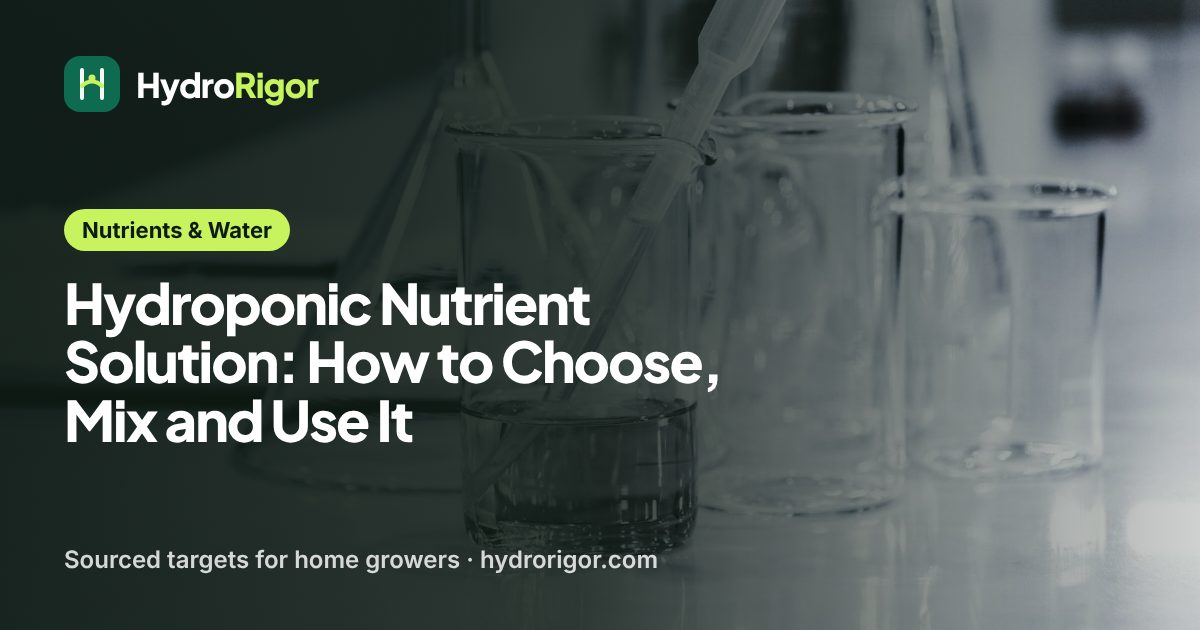
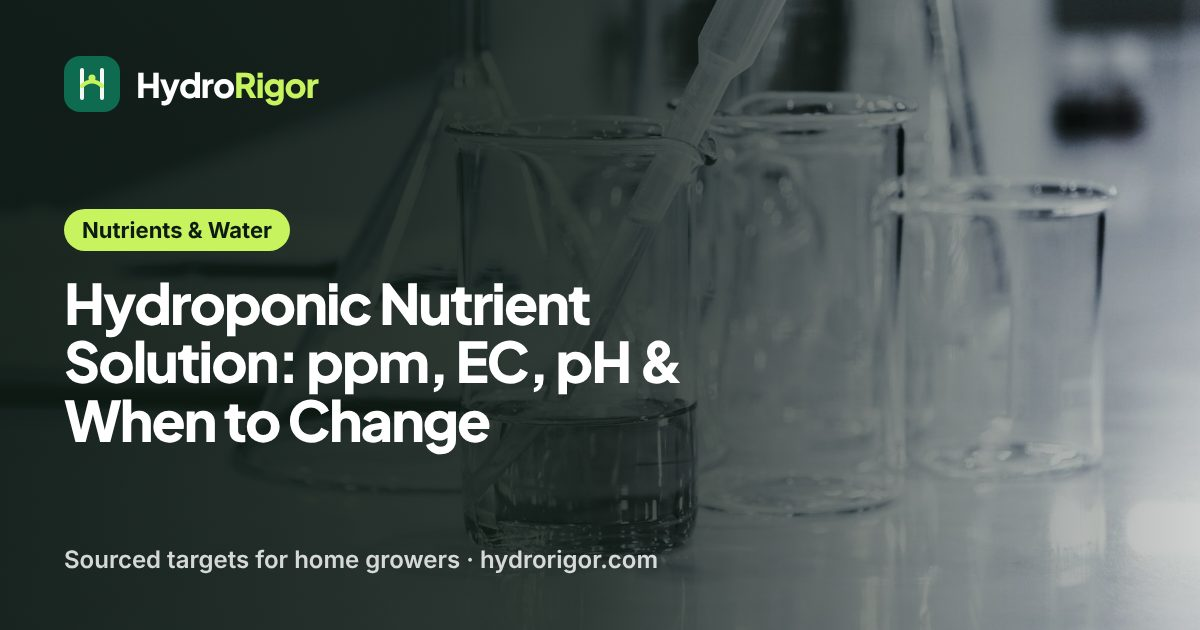
Rebuild nutrient solution guide: ppm, EC, pH and when to change
Rebuilds /nutrients-water/hydroponic-nutrient-solution/ to the content
standard: direct answer with numbers, KeyTargets card, ppm-by-stage table,
EC and pH by crop with source conflicts resolved, temperature and oxygen,
top-up versus replace, step-by-step, troubleshooting and FAQ, two new
diagrams. 16 registered sources; share images and Pinterest row regenerated.

Claude-Session: https://claude.ai/code/session_011zSWQwzAHzQ8Kry2U6W4eH

Changed region(s): [[0.0308, 0.5429, 0.6167, 0.7238]]

diff --git a/src/data/editorial-sources/m06.ts b/src/data/editorial-sources/m06.ts
@@ -25,7 +25,7 @@ export const m06EditorialSources = [
     url: 'https://extension.missouri.edu/publications/g6984',
     accessedDate: '2026-09-12',
     sourceType: 'university-extension',
-    locator: 'Water quality, preparation, measurement, and nutrient-solution management',
+    locator: 'Water quality, preparation, measurement, and nutrient-solution management: pH 5.5–6.5 rule of thumb for most hydroponic crops; source water EC 0.2–0.8 dS/m (ideally below 1), pH 5.5–7.0, alkalinity 40–160 ppm as CaCO3, sodium below 50 ppm, chlorine below 70 ppm, calcium below 150 ppm, boron below 0.5 ppm; calcium reacts with phosphates and sulfates to form insoluble solids roots cannot use, so dissolve each formulation completely before combining; EC shows the total, not the balance of individual nutrients',
   },
   {
     id: 'uga-home-hydroponics',
@@ -268,7 +268,7 @@ export const m06EditorialSources = [
     url: 'https://extension.psu.edu/hydroponics-systems-nutrient-solution-programs-and-recipes',
     accessedDate: '2026-11-06',
     sourceType: 'university-extension',
-    locator: 'Fertilizer programs: tomato example with a 4-18-38 base supplemented with calcium nitrate and magnesium sulfate by variety and stage; Nutrient solution concentration and fertilizer compatibility: two stock tanks keep calcium apart from phosphates and sulfates to avoid precipitates that clog drip lines',
+    locator: 'Preparation approaches grouped as fertilizer programs, recipes and complete soluble fertilizers; Fertilizer programs: tomato example with a 4-18-38 base supplemented with calcium nitrate and magnesium sulfate by variety and stage; Nutrient solution concentration and fertilizer compatibility: two stock tanks keep calcium apart from phosphates and sulfates to avoid precipitates that clog drip lines',
   },
   {
     id: 'psu-plant-nutrition',
@@ -277,7 +277,7 @@ export const m06EditorialSources = [
     url: 'https://extension.psu.edu/hydroponics-systems-and-principles-of-plant-nutrition-essential-nutrients-function-deficiency-and-excess',
     accessedDate: '2026-09-12',
     sourceType: 'university-extension',
-    locator: 'Essential nutrients, availability, monitoring, deficiency, and soluble salts',
+    locator: 'Essential nutrients, availability, monitoring, deficiency, and soluble salts: 17 essential elements, carbon, hydrogen and oxygen from air and water; antagonisms (excess of one nutrient, e.g. potassium, reduces uptake of another such as calcium or magnesium); interveinal yellowing of new leaves from iron deficiency, often caused by high pH; calcium-related tipburn and blossom-end rot; excess salts cause wilting and leaf burn',
   },
   {
     id: 'osu-ph-ec-guide',
@@ -286,7 +286,7 @@ export const m06EditorialSources = [
     url: 'https://extension.okstate.edu/fact-sheets/electrical-conductivity-and-ph-guide-for-hydroponics',
     accessedDate: '2026-11-06',
     sourceType: 'university-extension',
-    locator: 'HLA-6722 Table 2: tomato EC 2.0–4.0 mS/cm, pH 6.0–6.5; lettuce EC 1.2–1.8, pH 6.0–7.0; basil EC 1.0–1.6, pH 5.5–6.0; spinach EC 1.8–2.3, pH 6.0–7.0; strawberry EC 1.8–2.2, pH 6; broccoli EC 2.8–3.5, pH 6.0–6.8; kale and Swiss chard not listed; check pH and EC daily at the same time; adjust pH only after EC is in range; dilute with water if EC is high, add concentrate if low; pH adjusters; test source water for pH, EC and alkalinity; alkalinity above 75 ppm raises pH',
+    locator: 'HLA-6722 Table 2: tomato EC 2.0–4.0 mS/cm, pH 6.0–6.5; lettuce EC 1.2–1.8, pH 6.0–7.0; basil EC 1.0–1.6, pH 5.5–6.0; spinach EC 1.8–2.3, pH 6.0–7.0; strawberry EC 1.8–2.2, pH 6; broccoli EC 2.8–3.5, pH 6.0–6.8; kale and Swiss chard not listed; check pH and EC daily at the same time; adjust pH only after EC is in range; dilute with water if EC is high, add concentrate if low; pH adjusters; test source water for pH, EC and alkalinity; alkalinity above 75 ppm raises pH; solution temperature about 72–75 °F (22–24 °C); replace the solution completely about every two weeks; EC calibration standard 1.41 mS/cm',
   },
   {
     id: 'usda-organic-certification',

diff --git a/src/data/m06-content.ts b/src/data/m06-content.ts
@@ -31,7 +31,7 @@ const items = [
   [11, 'articles', 'crops', 'Hydroponic Tomatoes: pH, EC, Light, Spacing & Pruning', 'hydroponic-tomatoes', 'transactional research', 'hydroponic tomatoes', 'VERIFIED_2026-09-12', 1900, 29, ['tennessee-fruiting-crops', 'aces-greenhouse-tomato-anr2955', 'utk-trust-tomato-density-2012', 'vt-management-basics-spes462', 'vt-system-crop-comparisons', 'purdue-supplemental-light-lettuce', 'osu-ph-ec-guide', 'ifas-hydroponic-tomato-formulation', 'osu-hydro-hints-buckets', 'ifas-volusia-dwc-bucket', 'msstate-blossom-end-rot', 'mu-hydroponic-farming'], ['/tools/ph-ec-targets/']],
   [12, 'articles', 'crops', 'Hydroponic Tomato Seeds: Varieties That Fit Indoor Systems', 'hydroponic-tomato-seeds', 'transactional research', 'hydroponic tomatoes seeds', 'VERIFIED_2026-09-12', 480, 16, ['ifas-tomato-cultivars', 'usu-indoor-tomatoes', 'tennessee-fruiting-crops'], []],
   [13, 'articles', 'nutrients', "Hydroponic Nutrients: pH, EC & Mixing Guide for Beginners", 'hydroponic-nutrients', 'informational', 'hydroponic nutrients', 'VERIFIED_2026-09-12', 3600, 22, ['psu-plant-nutrition', 'mu-nutrient-solutions', 'osu-ph-ec-guide', 'ua-strawberry-irrigation'], ['/tools/ph-ec-targets/', '/tools/nutrient-mixing-calculator/']],
-  [14, 'articles', 'nutrients', 'Hydroponic Nutrient Solution: How to Choose, Mix and Use It', 'hydroponic-nutrient-solution', 'transactional research', 'hydroponic nutrients solution', 'VERIFIED_2026-09-12', 720, 25, ['mu-nutrient-solutions', 'psu-nutrient-programs', 'osu-ph-ec-guide'], ['/tools/nutrient-mixing-calculator/']],
+  [14, 'articles', 'nutrients', 'Hydroponic Nutrient Solution: ppm, EC, pH & When to Change', 'hydroponic-nutrient-solution', 'transactional research', 'hydroponic nutrients solution', 'VERIFIED_2026-09-12', 720, 25, ['mu-nutrient-solutions', 'psu-nutrient-programs', 'psu-plant-nutrition', 'osu-ph-ec-guide', 'ifas-hydroponic-tomato-formulation', 'ohio-state-tomato-nutrient-solution', 'tennessee-fruiting-crops', 'uky-hydroponic-lettuce', 'uky-monitoring-ph-ec', 'ifas-lettuce-small-systems', 'vt-system-crop-comparisons', 'sato-modified-nft-2007', 'gomez-basil-small-scale-2020', 'ua-strawberry-irrigation', 'msstate-tomato-ph', 'msu-calibrate-ph-ec'], ['/tools/ph-ec-targets/', '/tools/nutrient-mixing-calculator/']],
   [15, 'articles', 'nutrients', 'Organic Hydroponic Nutrients: What Works and What to Know', 'organic-hydroponic-nutrients', 'transactional research', 'hydroponic nutrients organic', 'VERIFIED_2026-09-12', 590, 20, ['usda-organic-certification', 'psu-organic-nutrient-study', 'mu-nutrient-solutions'], []],
   [16, 'articles', 'best', 'Best Hydroponic Nutrients for Home Growers', 'hydroponic-nutrients-for-home-growers', 'commercial research', 'best hydroponic nutrients', 'METRIC_NOT_REVERIFIED', undefined, undefined, ['psu-nutrient-programs', 'mu-nutrient-solutions', 'psu-plant-nutrition'], ['/tools/nutrient-mixing-calculator/']],
   [17, 'articles', 'nutrients', 'Powder vs Liquid Hydroponic Nutrients: Which Should You Buy?', 'powder-vs-liquid-hydroponic-nutrients', 'commercial research', 'hydroponic nutrients powder', 'METRIC_NOT_REVERIFIED', undefined, undefined, ['psu-nutrient-programs', 'mu-nutrient-solutions'], ['/tools/nutrient-mixing-calculator/']],

diff --git a/.agent/state/CURRENT_HANDOFF.md b/.agent/state/CURRENT_HANDOFF.md
@@ -1,6 +1,6 @@
 # Current Handoff
 
-Updated: 2026-11-12
+Updated: 2026-11-13
 
 ## State
 
@@ -77,6 +77,8 @@ Updated: 2026-11-12
 
 Guides published by automated runs under `HydroRigor Editorial`. When Najeeb has read one
 and approves, switch its byline to `Najeeb`.
+
+- `/nutrients-water/hydroponic-nutrient-solution/` — "Hydroponic Nutrient Solution: ppm, EC, pH & When to Change" (rebuild, 2026-11-13). Direct answer with pH, EC by crop, solution temperature, dissolved oxygen and replacement interval; KeyTargets card; tables for the UF/IFAS tomato formula in ppm by stage, three ways to make a solution (Penn State), EC and pH by crop and stage, source water, temperature and oxygen, top-up versus replace; step-by-step batch, troubleshooting and FAQ; two new diagrams (upkeep cycle; reservoir temperature and oxygen). Source conflicts shown and resolved: strawberry EC (Oklahoma State 1.8–2.2 vs Arizona 1.0 or less; page follows Arizona), lettuce pH (Kentucky 5.5–6.0 vs Oklahoma State 6.0–7.0; page suggests 5.5–6.0), solution temperature (Oklahoma State 72–75 °F, UF/IFAS 65–80 °F, Sato's cited 13–18 °C), replacement interval (Tennessee 1–2 weeks, Oklahoma State about 2, Kentucky 3–4 for lettuce; UF basil trial found topping up matched replacing). Web pages could not be opened in this run (fetch permission timed out), so every figure comes from 16 registered sources; the Missouri, Oklahoma State, Penn State locators were extended with figures already used on the live nutrients guide. Photo kept (lab glassware). Pinterest row: `docs/marketing/pinterest/pins-nutrient-solution-2026-11-15.csv`.
 
 - `/crops/hydroponic-lettuce-systems/` — "Hydroponic Lettuce Systems: NFT vs DWC vs Kratky Compared" (rebuild, 2026-11-12). Answer by number of plants (Kratky 1–3, DWC raft for a tray, NFT for rows), system comparison table, NFT numbers (slope, flow, length, heat and oxygen along the run) for "nutrient film hydroponic system", DLI-versus-yield table, step-by-step, troubleshooting and FAQ; two new diagrams (three-system cross-section; NFT channel numbers). Source conflicts shown and resolved on the page: NFT slope (Purdue 1:100 vs Oregon State 2% minimum; page suggests 2%), DWC oxygen (VT 7–10, Kentucky 6–8, UF/IFAS 5), lettuce DLI (Kentucky 12–17, Purdue 15–20, VT 17+), root-zone temperature (Sato's cited 13–18 °C vs UF/IFAS 65–80 °F). No source gives a home NFT plant spacing; the page says so. Web pages could not be opened in this run (fetch permission timed out), so every figure comes from 17 registered sources. Photo kept. Pinterest row: `docs/marketing/pinterest/pins-lettuce-systems-2026-11-14.csv`.
 

diff --git a/.agent/state/CURRENT_MILESTONE.md b/.agent/state/CURRENT_MILESTONE.md
@@ -81,7 +81,7 @@ impressions in 28 days).
 14. [x] `/best/hydroponic-systems-for-beginners/` — rebuilt 2026-11-12 ("Best Hydroponic System for Beginners: What to Start With"). Search Console: 6 impressions, position 46.5.
 15. [x] `/crops/hydroponic-lettuce-systems/` — rebuilt 2026-11-12 ("Hydroponic Lettuce Systems: NFT vs DWC vs Kratky Compared"). "nutrient film hydroponic system" 1,300 / 30;
         hydroponic lettuce systems (1,000, difficulty 28).
-16. [ ] `/nutrients-water/hydroponic-nutrient-solution/` — rebuild. "hydroponic nutrients solution" 720 / 25.
+16. [x] `/nutrients-water/hydroponic-nutrient-solution/` — rebuilt 2026-11-13 ("Hydroponic Nutrient Solution: ppm, EC, pH & When to Change"). "hydroponic nutrients solution" 720 / 25.
 17. [ ] New guide, plan ID 28: Kratky hydroponics (supports the Kratky sections of three rebuilt guides).
 18. [ ] New guide, plan ID 66: pH meters for hydroponics — "ph meter hydroponics" 590 / 15,
         "digital ph meter hydroponics" 140 / 14. Publish as a how-to-choose guide; add named
